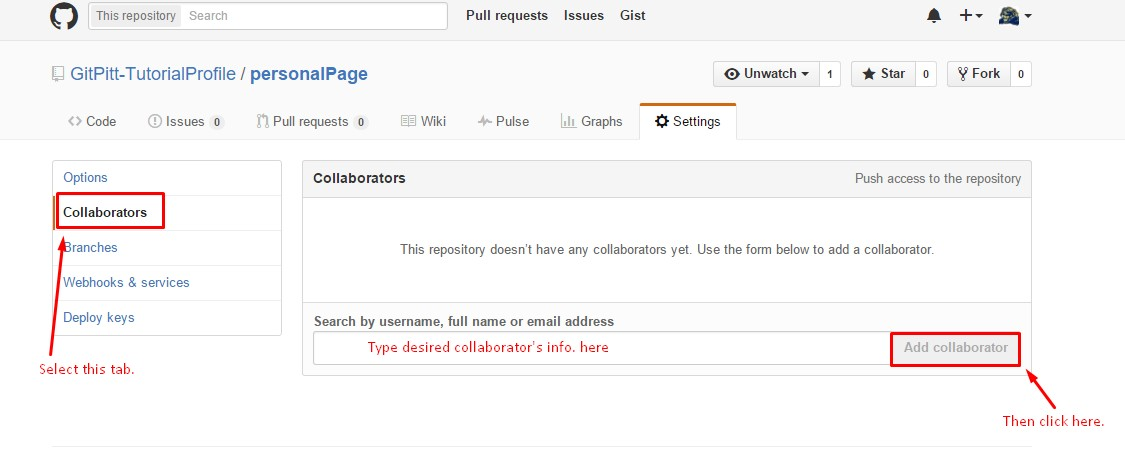
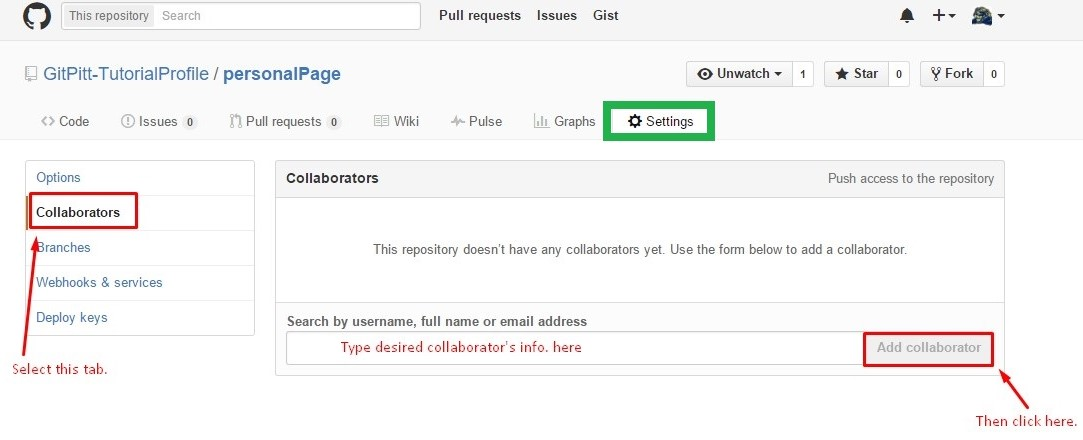
edits to GitShell tutorial

diff --git a/dh-courses-Common/explainGitShell.html b/dh-courses-Common/explainGitShell.html
@@ -18,23 +18,19 @@
         <div id="quickRef">
             <h3>Quick Reference:</h3> The Basics:<ul>
                 <li><a href="#terms">Key Terms</a></li>
-                <li><a href="#account">Creating an Account on GitHub</a></li>
-                <li><a href="#setup">Downloading Git Shell</a></li>
-                <li><a href="#repo">Creating a Repo</a></li>
-                <li><a href="#collaborators">Adding and Deleting Collaborators</a></li>
-                <li><a href="#cloning">Cloning a Repo</a></li>
-                <li><a href="#nav">Navigating Directories</a></li>
-                <li><a href="#working">Basic Git Workflow: pulling, staging, committing, and
-                        pushing</a></li>
-                <li><a href="#issue">Creating and Commenting on GitHub Issues</a></li>
-                <li><a href="#cheatSheet">Common Commands</a></li>
+                <li><a href="#account">Getting Started</a></li>
+                <li><a href="#repo">Repositories: Creating, Cloning, Adding Collaborators</a></li>
+                <li><a href="#nav">Working With Directories</a></li>
+                <li><a href="#issue">GitHub as Social Media: Issues and Wikis</a></li>
+                <li><a href="#cheatSheet">Common Git Commands</a></li>
             </ul> Advanced Project Management: <ul>
+                <li><a href="#trouble">Troubleshooting: Merge Conflicts and Bad Commits</a></li>
                 <li><a href="#branch">Creating and Deleting a Branch</a></li>
                 <li><a href="#fork">Creating and Maintaining a Forked Repo</a></li>
-                <li><a href="#data">Preserving and Mining GitHub Repo Data</a></li>
             </ul>
         </div>
         <h3>What is Git? And why do we use it?</h3>
+        <!-- RJP:2016-08-26: Needs edited to include more info about VCSs and what makes Git Different -->
         <p>Git is a free, open-source version control system (VCS) designed to handle everything
             from small tasks to major projects. The major difference between Git and any other VCS
             is the way Git thinks about its data. Conceptually, most other version control systems
@@ -72,10 +68,8 @@
             periodically <dfn>pulling</dfn> changes made by your project team from the server to
             your local machine. So as long as you have recently pulled in any changes you can work
             offline until you are ready to push your changes. For more information regarding what
-            Git is and the benefits of using Git please visit <a href="http://git-scm.com/"
-                target="_blank">this online version of Pro Git</a>
-            <span class="smaller">(an entire how-to guide on Git written by Scott Chacon and Ben
-                Straub)</span>.</p>
+            Git is and the benefits of using Git please visit the online version of <a
+                href="http://git-scm.com/" target="_blank">Pro Git</a>, a how-to guide to Git.</p>
         <h4>Why use Git Shell (command line)?</h4>
         <p>Unlike the Graphical User Interfaces (GUIs), the command line / terminal is the only
             place you can take advantage of all the functions Git has to offer. The GUIs only
@@ -86,6 +80,7 @@
                 href="http://try.github.io/levels/1/challenges/1" target="_blank">here</a> for
             GitHub's helpful, interactive tutorial on using the Git command-line interface.</p><!-- RJP:2016-08-24: Should we link to our GUI tutorial here? I think better not send students down a path we don't encourage. Just in case: http://dh.obdurodon.org/github.xhtml -->
         <h3 id="terms">Basic Terms to Understanding Git and GitHub</h3>
+        <!-- RJP:2016-08-26: Needs edited to correspond with edits made in first few paragraphs -->
         <p>Below is a list of key terms you will need to understand while using Git and GitHub. Each
             of these terms will be discussed in greater detail throughout this tutorial, but think
             of this as your quick reference guide to the basics.</p>
@@ -132,46 +127,37 @@
                 you're both working on, you'll want to pull in those changes to your local copy so
                 that it's up to date.</li>
             <!--<li><dfn><strong></strong></dfn>:</li>-->
-            <!--RJP:2016-08-24: We should add more as we see necessary. I didn't want to overload with terms especially since each of these terms comes up in greater detail throughout the tutorial, but we could add more to this list if we later think it is necessary. -->
+            <!--RJP:2016-08-24: We should add more as we see necessary. I didn't want to overload with terms especially since each of these terms comes up in greater detail throughout the rest of the tutorial, but we could add more to this list as we see necessary. -->
         </ul>
         <p><span class="smaller">The above definitions are compiled from the following three sites,
                 which can be visited for definitions of even more Git terms: <a
                     href="https://www.kernel.org/pub/software/scm/git/docs/gitglossary.html"
-                    target="_blank"
-                    >https://www.kernel.org/pub/software/scm/git/docs/gitglossary.html</a>, <a
+                    target="_blank">kernel.org</a>, <a
                     href="https://betterexplained.com/articles/aha-moments-when-learning-git/"
-                    target="_blank"
-                    >https://betterexplained.com/articles/aha-moments-when-learning-git/</a>, and <a
+                    target="_blank">betterexplained.com</a>, and <a
                     href="https://help.github.com/articles/github-glossary/" target="_blank"
-                    >https://help.github.com/articles/github-glossary/</a></span></p>
+                    >help.github.com</a></span></p>
         <br />
-        <h1>Let's get started!</h1>
-        <h3 id="account">How to create a GitHub account:</h3>
+        <h1 id="account">Let's get started!</h1>
+        <h3>How to create a GitHub account:</h3>
         <p>Because GitHub is a social networking site, where people post their code so that it will
             be accessible to others, using it requires creating an account. You can create a free
             account by navigating to <a href="https://www.github.com" target="_blank"
-                >https://www.github.com</a>. You are not required to create an account using your
-            pitt.edu address; however, associating an educational email address with your account
-            may give you additional benefits <span class="smaller">(including five free private
-                repos)</span>.</p>
-        <p>To create your account, enter a user name, email address, and password and then click the
-            green button that says <q>Sign up for GitHub</q>.<br />
-            <img src="git_shell/creatingAccount_01.jpg" alt="Creating An Account" /><br />Be sure to
-            select the free option, and then click the green button that says <q>Finish sign up</q>.<br />
-            <img src="git_shell/creatingAccount_02.jpg" alt="Creating An Account" /><br /> After
-            creating your account, GitHub will prompt you to verify your email address and decide on
-            notification frequency. Make sure to follow the link in the verification email. It is
-            important while you are enrolled in this coding course that you regularly checking
+            >github.com</a>. You are not required to create an account using your pitt.edu address;
+            however, associating an educational email address with your account may give you
+            additional benefits <span class="smaller">(including five free private repos)</span>. To
+            create your account, enter a user name, email address, and password and then click the
+            green button that says <q>Sign up for GitHub</q>. Be sure to select the free option, and
+            then click the green button that says <q>Finish sign up</q>. After creating your
+            account, GitHub will prompt you to verify your email address and decide on the frequency
+            of GitHub email notifications. Make sure to follow the link in the verification email.
+            It is important while you are enrolled in this coding course that you regularly checking
             GitHub so you may decide to allow all notifications <span class="smaller">(knowing you
-                can change this later)</span> You will then be directed back to your account.<br />
-            <img src="git_shell/creatingAccount_03.jpg" alt="Creating An Account" /><br />
-            <img src="git_shell/creatingAccount_04.jpg" alt="Creating An Account" /><br />
-            <img src="git_shell/creatingAccount_05.jpg" alt="Creating An Account" /><br />
-            <strong>Note: We have highlighted some recommended features of your GitHub account that
-                you should take some time exploring further.</strong><br />
-            <img src="git_shell/creatingAccount_06.jpg" alt="Creating An Account" /><br />
-            <img src="git_shell/creatingAccount_07.jpg" alt="Creating An Account" />
-        </p>
+                can change this later)</span>. You will then be directed back to your account.</p>
+        <p><img src="git_shell/creatingAccount_05.jpg" alt="Creating An Account" /></p>
+        <p><strong>Note: We have highlighted some recommended features of your GitHub account that
+                you should take some time exploring further.</strong></p>
+        <p><img src="git_shell/creatingAccount_07.jpg" alt="Creating An Account" /></p>
         <h3 id="setup">Downloading Git Shell</h3>
         <p>Git is available for <a
                 href="https://git-scm.com/book/en/v2/Getting-Started-Installing-Git" target="_blank"
@@ -190,19 +176,40 @@
                 you NEED to browse your computer and save to a logical place on your local machine
                 that you know how to access easily.</li>
         </ul>
-        <p>After you have completed the download you will need to configure your local machine's Git
-            with your online GitHub account. Begin configuration by opening Git shell and entering
-            the following commands <span class="smaller">(after the <span class="code"
-                >$</span>)</span>:</p>
+        <p>When downloading Git on a Windows computer and/or if you are less experienced Mac user we
+            suggest downloading <a href="https://desktop.github.com/" target="_blank">GitHub
+                Desktop</a> because the storing of configuration information is made simplier
+            through the GUI client that is installed with GitHub Desktop. Once download of GitHub
+            Desktop is complete you should open the GUI client (the icon with the purple cat head)
+            and to the gear symbol in the top right of the client. From there click on
+                <q>Options</q>. This is where you can configure your local Git setup with your
+            GitHub account.</p>
+        <p><img src="git_shell/desktopClientDownload_05.jpg" alt="Using GUI to Configure Account"
+             /></p>
+        <p>After you have completed configuraition using the GUI client exit the client and remove
+            the shortcut from your desktop. Do not uninstall the GUI in case you descide to change
+            your configuration in the future, but remove any created shortcuts because the Git Shell
+            will be where you will do the rest of your Git interactions. If you choose to <a
+                href="https://git-scm.com/book/en/v2/Getting-Started-Installing-Git" target="_blank"
+                >download</a> without the GUI you will need to configure your local machine's Git
+            with your online GitHub account. Begin configuration by opening Git Shell <span
+                class="smaller">(might be called Git Bash on your computer)</span> and entering the
+            following commands <span class="smaller">(after the <span class="code"
+            >$</span>)</span>:</p>
         <span class="code">$ git config --global user.name "YOUR NAME"</span>
         <br />
         <span class="code">$ git config --global user.email "YOUR EMAIL ADDRESS"</span>
         <p>Be sure to use the same email address you used when signing up for your GitHub account.
             This will add your name and email to a file named <dfn>.gitconfig</dfn> in your home
             directory. To verify that you entered your information correctly use the command:</p>
-        <span class="code">$ git config --list</span>. For more information on the <code>git
-            config</code> command click <a href="https://git-scm.com/docs/git-config"
-            target="_blank">here</a>. <h3 id="repo">Creating a Repository</h3>
+        <span class="code">$ git config --list</span>. <p>For more information on the <code>git
+                config</code> command visit <a href="https://git-scm.com/docs/git-config"
+                target="_blank">the Pro Git guide on configuration</a>. Note: in oder to cache your
+            username and password, if you have downloading Git without the GUI client, you will need
+            to follow further directions found on <a
+                href=" https://help.github.com/articles/caching-your-github-password-in-git/#platform-all"
+                target="_blank">help.github.com</a>.</p>
+        <h3 id="repo">Creating a Repository</h3>
         <h4>What is a repo?</h4>
         <p>Projects on GitHub are stored in repos (short for repositories), which you can think of
             as equivalent to folders or directories on your computer. Repos can contain plain files
@@ -212,36 +219,37 @@
             your project becomes more complex, you can think about creating subdirectories and
             distributing the files among them according to file type or other criteria. Your project
             mentor will advise you about how to structure the directory space for your project.</p>
-        <p>Your main project repo will reside on the GitHub server, which is the remote server that
-            is accessible to others. It is possible to edit files directly on the server using the
-            GitHub interface, but our suggested way to interact with GitHub is to work on copies of
-            the project files on your own machine and then, when you are satisfied with the state of
-            your work, to push (upload) your new or modified files to the remote server so that your
-            project partners will have access to them. Similarly, when your project partners push
-            their changes to the server, those won’t be reflected in the copies on your local
-            machine until you pull (download) them. The process of uploading files you have modified
-            from your local machine to the GitHub server, and of downloading from the GitHub server
-            files that your project partners may have developed or modified and uploaded, is called
-            syncing (short for synchronization). Syncing with command line requires two basic
-            commands: <code>git pull</code> and <code>git push</code>. The command <code>git
-                pull</code> can be broken down into <code>git fetch</code> and <code>git
-                merge</code>, but we will discuss the distinction later in this tutorial. When you
-            begin a work session, you should start by syncing your local project space with the
-            server using <code>git pull</code>, so that you’ll catch up on any changes other project
-            contributors have made. When you reach a stopping point in your work <span
-                class="smaller">(when you have new or updated files that your project partners need
-                to see)</span>, you should commit (<code>git commit</code>) and sync again, but this
-            time using <code>git push</code>. You don’t have to push after every keystroke, but you
-            should commit regularly and push whenever you reach a reasonably stable intermediate
-            point to which your project partners should have access.</p>
+        <p>Your remote project repo will reside on the GitHub server, which is the remote server
+            that is accessible to others. It is possible to edit files directly on the server using
+            the GitHub interface, but the typical interaction with GitHub is to work on copies of
+            the project files <span class="smaller">a.k.a. repo clone</span> on your own machine and
+            then, when you are satisfied with the state of your work, to push (upload) your new or
+            modified files to the remote server so that your project partners will have access to
+            them. Similarly, when your project partners push their changes to the server, those
+            won’t be reflected in the copies on your local machine until you pull (download) them.
+            The process of uploading files you have modified from your local machine to the GitHub
+            server, and of downloading from the GitHub server files that your project partners may
+            have developed or modified and uploaded, is called syncing (short for synchronization).
+            Syncing with command line requires two basic commands: <code>git pull</code> and
+                <code>git push</code>. The command <code>git pull</code> can be broken down into
+                <code>git fetch</code> and <code>git merge</code>, but we will discuss the
+            distinction later in this tutorial. When you begin a work session, you should start by
+            syncing your local project space with the server using <code>git pull</code>, so that
+            you’ll catch up on any changes other project contributors have made. When you reach a
+            stopping point in your work <span class="smaller">(when you have new or updated files
+                that your project partners need to see)</span>, you should commit (<code>git
+                commit</code>) and sync again, but this time using <code>git push</code>. You don’t
+            have to push after every keystroke, but you should commit regularly and push whenever
+            you reach a reasonably stable intermediate point to which your project partners should
+            have access.</p>
         <h4>How to create a repo:</h4>
         <p>The best way to initiate a new repo, for our group projects, will be to create it through
             the online web interface. Easy to follow instructions on how to do this can be found <a
-                href="https://help.github.com/articles/create-a-repo/" target="_blank">here</a>. If
-            a repo is created through the web interface it will need to be <a href="#cloning"
-                >cloned</a> in order for you to access it and begin working on your local computer.
-            Only one member of your project team will need to create the project repo, and all other
-            team members will <a href="#cloning">clone</a> from that repo.</p>
+                href="https://help.github.com/articles/create-a-repo/" target="_blank">on
+                help.github.com</a>. If a repo is created through the web interface it will need to
+            be <a href="#cloning">cloned</a> in order for you to access it and begin working on your
+            local computer. Only one member of your project team will need to create the project
+            repo, and all other team members will <a href="#cloning">clone</a> from that repo.</p>
         <span class="smaller">(If you wish to create a repo by using Git Shell you only need to know
             one command: <code>$ git init</code>. This initializes a git repository by creating the
             initial .git directory in a new or an existing project pending on the directory
@@ -258,17 +266,13 @@
             <li>Sign in and navigate to your profile. <p><img src="git_shell/addCollaborator_00.jpg"
                         alt="Adding a Collaborator" /></p>
             </li>
-            <li>Choose the repositories tab from your profile. </li>
-            <li>Select the repo to which you want to add a collaborator. <p><img
-                        src="git_shell/addCollaborator_01.jpg" alt="Adding a Collaborator" /></p>
-            </li>
-            <li>Select Settings at the top of the screen. <p><img
-                        src="git_shell/addCollaborator_02.jpg" alt="Adding a Collaborator"
-                 /></p></li>
+            <li>Choose the repositories tab from your profile.</li>
+            <li>Select the repo to which you want to add a collaborator.</li>
+            <li>Select <q>Settings</q> at the top of the screen.</li>
             <li>On the Settings page, move to the menu on the left side of the page, and select
-                Collaborators <p><img src="git_shell/addCollaborator_03.jpg"
+                <q>Collaborators</q>. <p><img src="git_shell/addCollaborator_03.jpg"
                         alt="Adding a Collaborator" /></p></li>
-            <li> Type the user name of the collaborator you want to add. (This means that you’ll
+            <li>Type the user name of the collaborator you want to add. (This means that you’ll
                 need to ask your collaborators to tell you their GitHub user names in advance.) As
                 you type, a drop down list will be generated matching what you have typed. Select
                 the user you would like to add from the list. Then click Add collaborator.</li>
